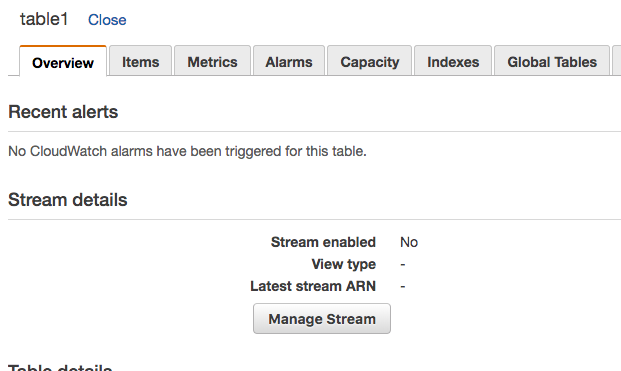
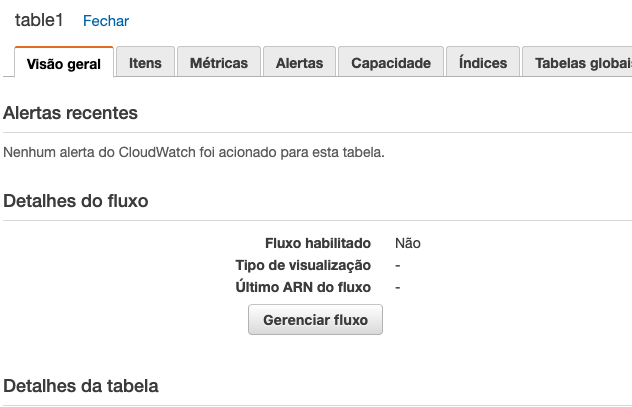
03 dynamo 04 DynamoStreams

diff --git a/03 - Dynamo/05 - Dynamo Streams/dynamo.py b/03 - Dynamo/05 - Dynamo Streams/dynamo.py
@@ -7,4 +7,4 @@ from datetime import datetime
 dao = BaseDAO('table1')
 
 for i in range(10):
-    dao.put_item({'xpto':str(i)})
+    dao.put_item({'user':str(i)})

diff --git a/03 - Dynamo/05 - Dynamo Streams/README.md b/03 - Dynamo/05 - Dynamo Streams/README.md
@@ -1,21 +1,21 @@
 # 03.5 - Dynamo Streams
 
-1. Crie 2 tabelas, table1, e table2 com a mesma partition key.
-2. Na table1, na aba 'Overview', clique em 'Manage Stream'
+1. No terminal do IDE criado no cloud9 execute o comando `cd ~/environment/aula-serverless-mob/03\ -\ Dynamo/05\ -\ Dynamo\ Streams/` para entrar na pasta que fara este exercicio.
+2. Em uma nova aba abra o console da AWS e vá para o serviço DynamoDB. 
+3. Crie 2 tabelas simples, table1, e table2 com a mesma chave de partição 'user'.
+4. Na table1, na aba 'Visão geral', clique em 'gerenciar fluxo'
 ![img/dynamoStreams-01.png](img/dynamoStreams-01.png)
-3. Escolha a opção 'New Image', e clique em 'Enable'
+3. Escolha a opção 'Imagem nova', e clique em 'Habilitar'
 ![img/dynamoStreams-0.png](img/dynamoStreams-02.png)
-4. crie uma pasta chamada 'lambda' e entre nela
-5. rode o comando `sls create --template "aws-python3"`
-6. copie o arquivo 'baseDAO.py' que esta na raiz do módulo para esse diretório.
-7. Edite o arquivo 'handler.py' para que fique como na imagem
+1. rode o comando `sls create --template "aws-python3"`
+2. Edite o arquivo 'handler.py' para que fique como na imagem
 ![img/dynamoStreams-03.png](img/dynamoStreams-03.png)
 8. Edite o arquivo 'serverless.yml' para que fique igual na imagem
 ![img/dynamoStreams-04.png](img/dynamoStreams-04.png)
-9. Execute o comando `sls deploy` dentro da pasta 'lambda'
-10. Verifique no painel da 'table1' se existe uma trigger atribuida ao Stream
+1. Execute o comando `sls deploy` no terminal
+2.  Verifique no painel da 'table1' se existe um gatilho atribuido ao Stream
 ![img/dynamoStreams-05.png](img/dynamoStreams-05.png) 
-11. Dentro da para 'lambda' execute o seguinte comando para seguir o log da função criada `sls logs -t -f copy`
 12. Altere o arquivo 'dynamo.py' na raiz do módulo para inserir 10 linhas na 'table1'
-13. Em outra aba do terminal rode o arquivo 'dynamo.py' com o comando `python3 dynamo.py`
-14. Caso tudo tenha dado certo todos as linhas inseridas na 'table1' também vão estar na 'table2'
+13. Em outra aba do terminal rode o arquivo 'dynamo.py' com o comando `python3 dynamo.py` dentro da pasta citada no passo 1 deste exercicio
+14. execute o seguinte comando para seguir o log da função criada `sls logs -t -f copy` 
+15. Caso tudo tenha dado certo todos as linhas inseridas na 'table1' também vão estar na 'table2'
